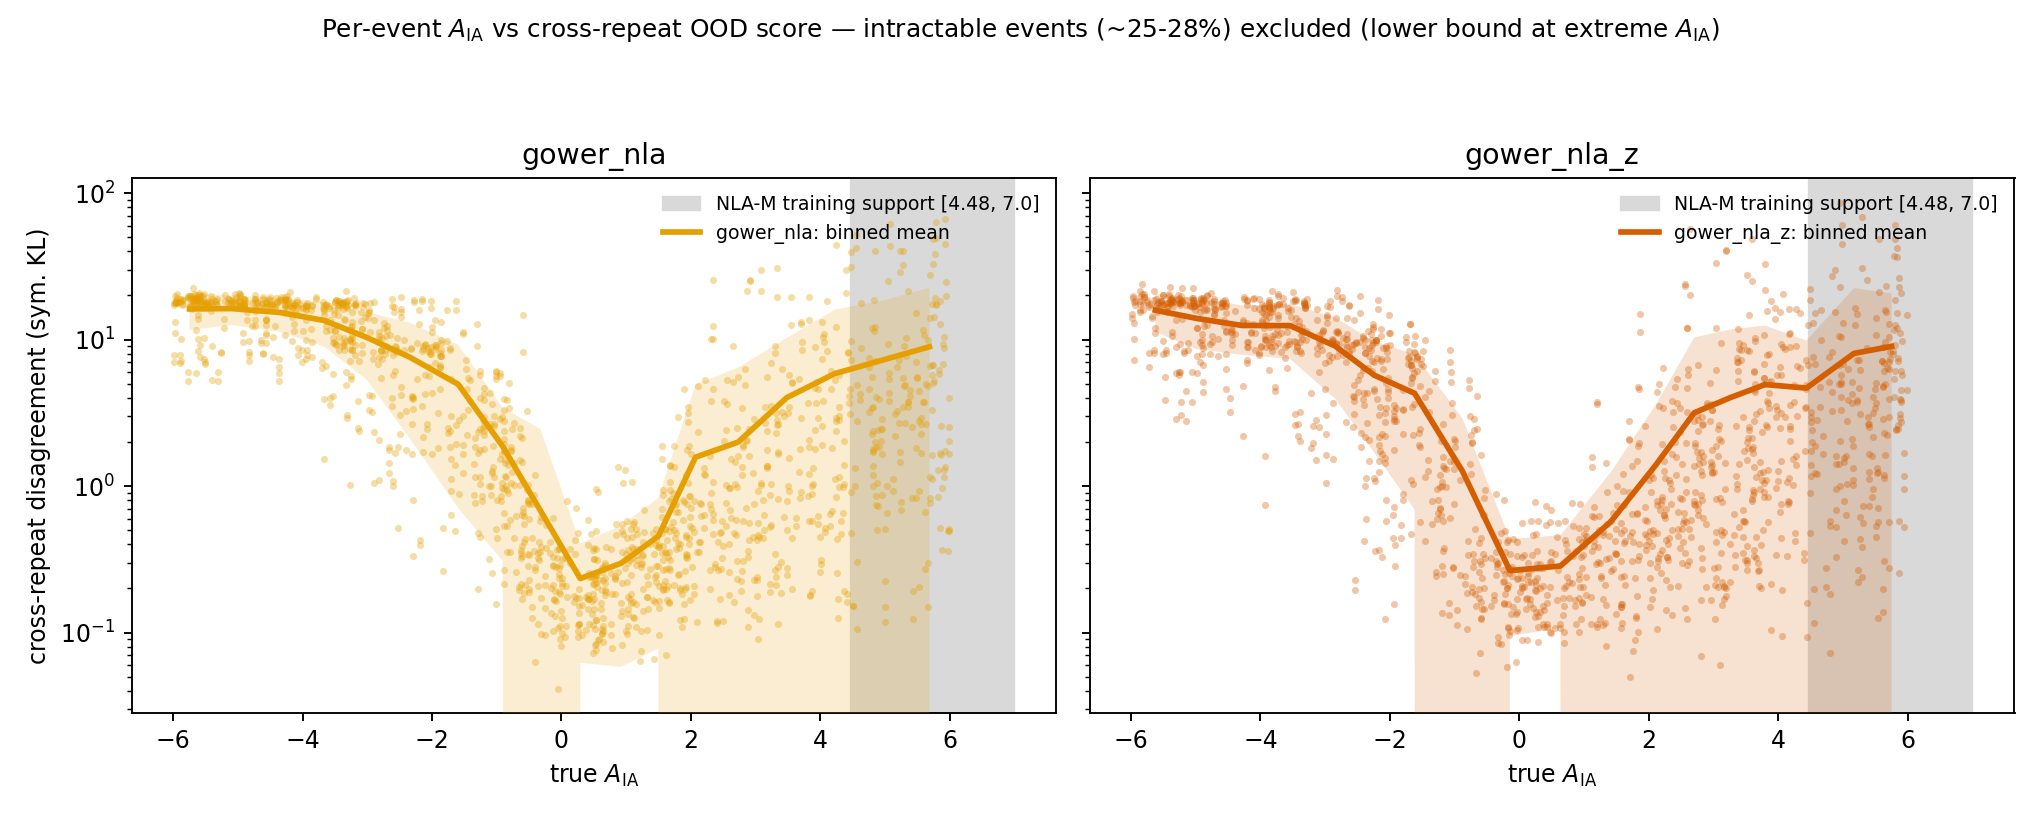
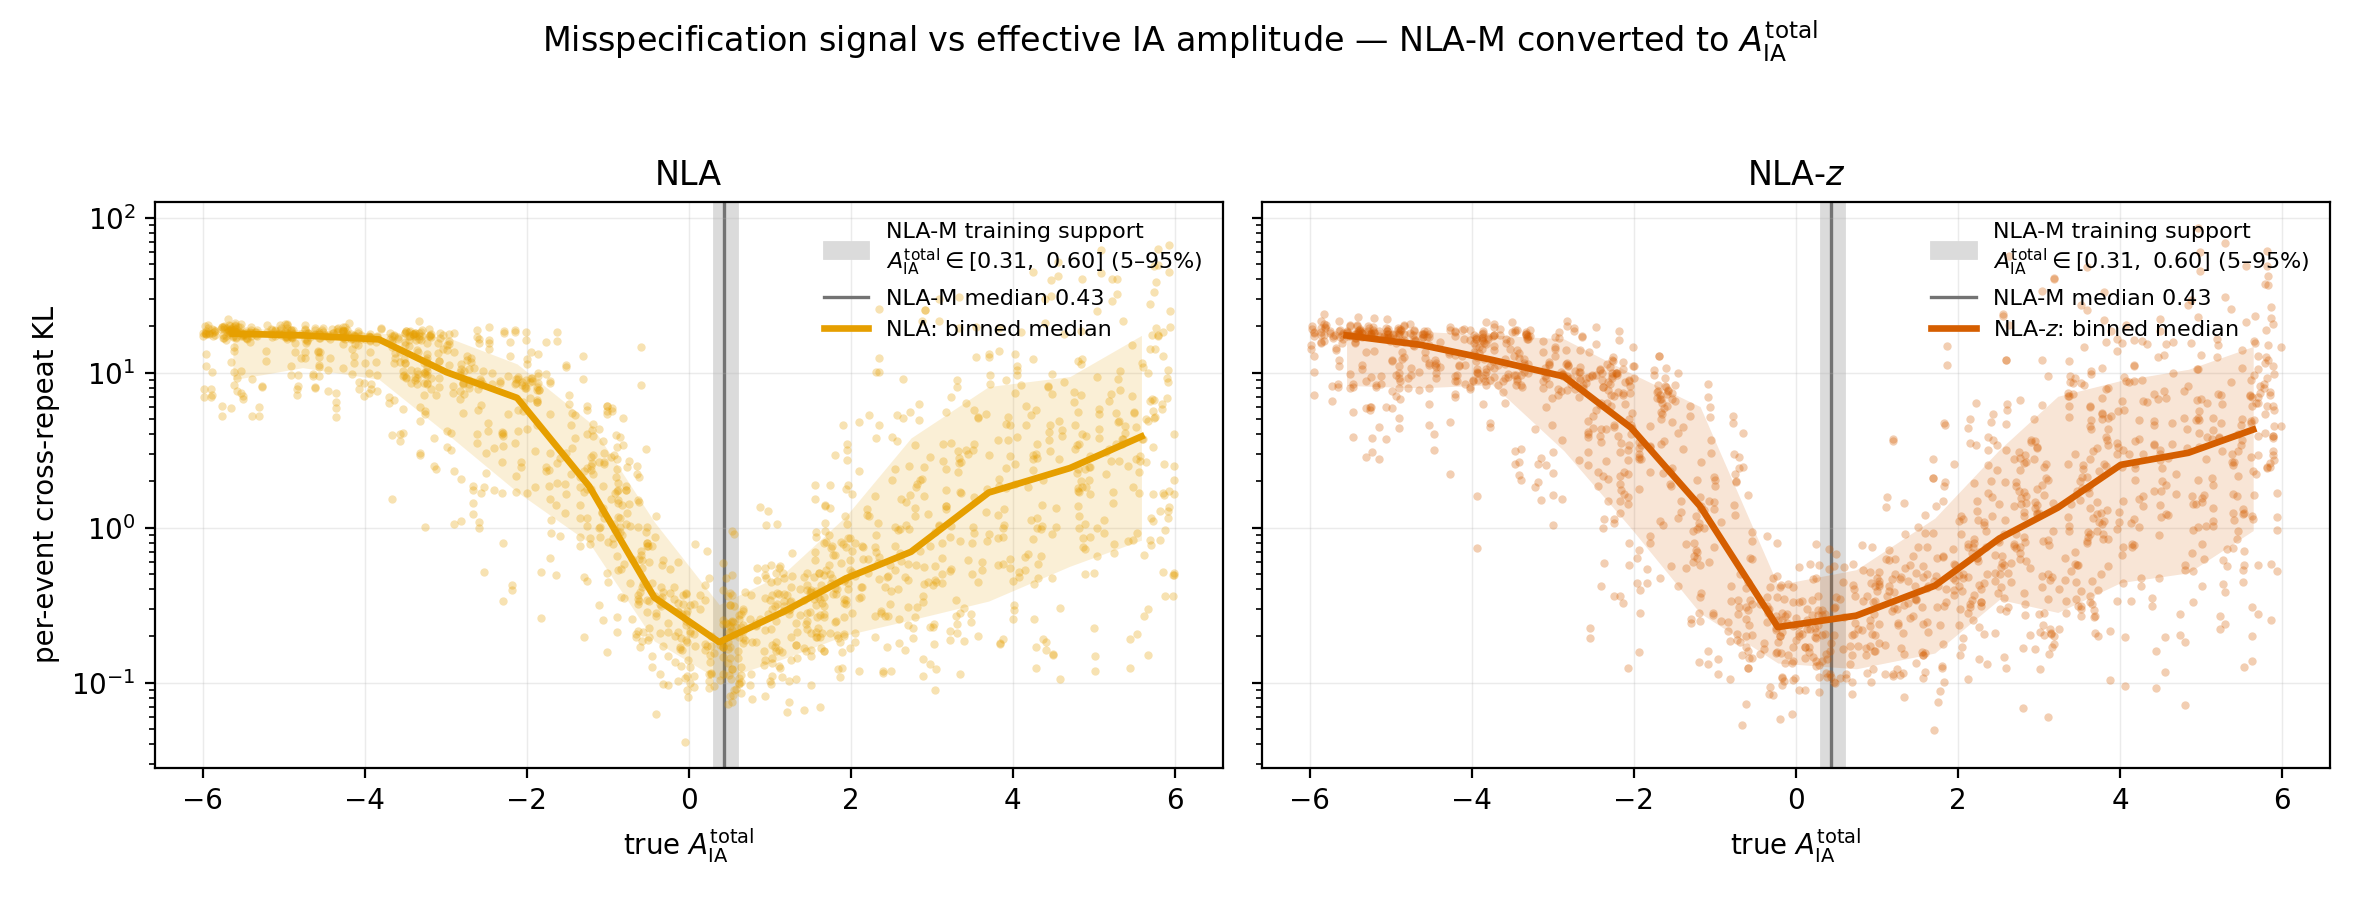
fix: convert NLA-M a_ia to the effective A_IA^total before comparing IA models
`a_ia` does not mean the same thing in the three IA models, so the raw
parameter must never share an axis. Measured on this arm's stored theta0s:

  gower_bgp_nla_m   a_ia in [4.48, 7.00], median 5.75   RAW NLA-M prefactor
  gower_nla         a_ia in [-6.0, +6.0], median -0.11  ALREADY A_IA^total
  gower_nla_z       a_ia in [-6.0, +6.0], median +0.12  ALREADY A_IA^total

NLA and NLA-z store the amplitude directly in the KiDS-Legacy A_IA^total
convention (Wright et al. 2025), centred on zero; NLA-M stores the raw
prefactor of

  A_eff^(i) = a_ia * f_red^(i) * (10^{log10 M^(i)} / 10^{13.5})^{b_ia}

(src/cosmology/nla.py:kappa_ia_nla_m, f_red from src/KiDS/systematics.py:19,
per-bin halo masses from kids-legacy-sbi/data/priors/massdep_means.txt).
Averaged over the six tomographic bins at the prior centre this gives 0.437,
reproducing the 0.44 recorded in the earlier first-npe-misspecification
analysis, where this conversion was first established.

The previous figure shaded the RAW box [4.48, 7.0] as "NLA-M training
support" on an axis carrying A_IA^total. That placed the band an order of
magnitude off-scale and inverted the reading. Converted per event, the
training support is A_IA^total in [0.31, 0.60] (5-95%), median 0.43 -- and
the cross-repeat KL bottoms out exactly there for BOTH nla and nla_z,
rising steeply on either side. The model is least surprised precisely where
the effective IA amplitude matches what it was trained on, recovered
without ground truth.
[…]

Changed region(s): [[0.0, 0.1838, 0.9882, 0.9804], [0.1544, 0.0, 0.8338, 0.0613], [0.2471, 0.9191, 0.3397, 0.9804]]

diff --git a/.claude/runs/eval-and-viz/production-model-misspec/artifacts/gower_aia_vs_kl.py b/.claude/runs/eval-and-viz/production-model-misspec/artifacts/gower_aia_vs_kl.py
@@ -1,0 +1,173 @@
+"""Misspecification signal vs the EFFECTIVE IA amplitude A_IA^total.
+
+⚠ THE CONVERSION THIS SCRIPT EXISTS TO GET RIGHT
+--------------------------------------------------
+`a_ia` does NOT mean the same thing in the three IA models, so the raw parameter must never
+be plotted on a shared axis. Measured on the stored `theta0s` of this arm:
+
+  gower_bgp_nla_m   a_ia in [4.48, 7.00], median 5.75   <- RAW NLA-M amplitude parameter
+  gower_nla         a_ia in [-6.0, +6.0], median -0.11  <- ALREADY A_IA^total
+  gower_nla_z       a_ia in [-6.0, +6.0], median +0.12  <- ALREADY A_IA^total
+
+The NLA and NLA-z variates store the amplitude directly in the KiDS-Legacy A_IA^total
+convention (Wright et al. 2025), centred on zero. NLA-M instead stores the raw prefactor of
+
+    A_eff^(i) = a_ia * f_red^(i) * (10^{log10 M^(i)} / 10^{13.5})^{b_ia}
+
+(`src/cosmology/nla.py:kappa_ia_nla_m`, `f_red` from `src/KiDS/systematics.py:19`, per-bin
+halo masses from `kids-legacy-sbi/data/priors/massdep_means.txt`). Averaged over the six
+tomographic bins at the prior centre (a_ia = 5.74, b_ia = 0.44) this gives A_IA^total = 0.437,
+reproducing the 0.44 recorded in the earlier `first-npe-misspecification` analysis.
+
+An earlier version of this figure shaded the RAW NLA-M box [4.48, 7.0] as the "training
+support" on an axis carrying NLA's A_IA^total. That put the training band an order of
+magnitude away from where the model was actually trained and inverted the reading of the
+figure: the NLA/NLA-z events nearest A_IA^total = 0 are the ones the NLA-M model is LEAST
+prepared for, not the most. This script converts NLA-M per event and shades the resulting
+band, so both fidelities sit in one convention.
+"""
+
+import argparse
+import os
+import sys
+
+import matplotlib
+
+matplotlib.use("Agg")
+import matplotlib.pyplot as plt
+import numpy as np
+
+sys.path.insert(0, os.path.dirname(os.path.abspath(__file__)))
+from gower_style import COLORS, LABELS  # noqa: E402
+
+PARAMS = ["omega_m", "sigma_8", "w0", "mnu", "h", "ns", "ombh2", "a_ia", "b_ia"]
+J_AIA, J_BIA = PARAMS.index("a_ia"), PARAMS.index("b_ia")
+
+# the scaler mapped every variate's a_ia/b_ia through the NLA-M preset box, so unscaling with
+# it recovers each variate's own stored physical value (raw for nla_m, A_IA^total for nla*).
+AIA_BOX, BIA_BOX = (4.48, 7.0), (0.28, 0.6)
+
+# NLA-M effective-amplitude conversion (see docstring)
+F_RED = np.array([0.15, 0.20, 0.17, 0.24, 0.19, 0.03])
+LOG10_M = np.array([11.69224599, 12.45768451, 12.76280679, 12.93435839,
+                    13.08446641, 13.21675774])
+LOG10_M_PIVOT = 13.5
+
+
+def nla_m_effective(a_ia, b_ia):
+    """Raw NLA-M (a_ia, b_ia) -> A_IA^total, averaged over the six tomographic bins."""
+    a = np.asarray(a_ia, dtype=np.float64)[:, None]
+    b = np.asarray(b_ia, dtype=np.float64)[:, None]
+    per_bin = a * F_RED[None, :] * 10.0 ** ((LOG10_M[None, :] - LOG10_M_PIVOT) * b)
+    return per_bin.mean(axis=1)
+
+
+def unscale(x, box):
+    return x * (box[1] - box[0]) + box[0]
+
+
+def load(root, variate, match):
+    p = os.path.join(root, variate, f"misspec_posterior_samples_{match}.npz")
+    with np.load(p, allow_pickle=True) as f:
+        th, s, files = f["theta0s"], f["samples"], f["test_files"]
+    mu, sd = s.mean(0), s.std(0)
+    z = (th - mu) / np.maximum(sd, 1e-12)
+    a_raw = unscale(th[:, J_AIA], AIA_BOX)
+    b_raw = unscale(th[:, J_BIA], BIA_BOX)
+    return {"a_raw": a_raw, "b_raw": b_raw, "z": z, "files": files}
+
+
+def kl_map(root, variate, matches):
+    """Per-event cross-repeat KL, keyed by test_file."""
+    tag = "_".join(matches)
+    p = os.path.join(root, variate, f"misspec_repeat_disagreement_{tag}.npz")
+    if not os.path.exists(p):
+        return None
+    with np.load(p, allow_pickle=True) as f:
+        d = {k: f[k] for k in f.files}
+    key = "kl" if "kl" in d else next((k for k in d if "kl" in k.lower()), None)
+    fk = "test_files" if "test_files" in d else None
+    if key is None or fk is None:
+        return None
+    return dict(zip(d[fk].tolist(), np.asarray(d[key], dtype=np.float64)))
+
+
+def binned(x, y, n=14, minc=6):
+    e = np.unique(np.quantile(x, np.linspace(0, 1, n + 1)))
+    c, m, s = [], [], []
+    for lo, hi in zip(e[:-1], e[1:]):
+        k = (x >= lo) & (x <= hi)
+        if k.sum() >= minc:
+            c.append(0.5 * (lo + hi))
+            m.append(np.median(y[k]))
+            # 16-84 percentiles, not mean +- sd: the KL is heavy-tailed and plotted on a
+            # log axis, where a symmetric sd band underflows into a meaningless funnel.
+            s.append(np.percentile(y[k], [16, 84]))
+    return np.array(c), np.array(m), np.array(s)
+
+
+def main():
+    ap = argparse.ArgumentParser()
+    ap.add_argument("--root", required=True)
+    ap.add_argument("--matches", nargs="+",
+                    default=[f"ncosmo300_{i}" for i in range(5)])
+    ap.add_argument("--match", default="ncosmo300_0")
+    ap.add_argument("--variates", nargs="+", default=["gower_nla", "gower_nla_z"])
+    ap.add_argument("--indist", default="gower_bgp_nla_m")
+    ap.add_argument("--out", default="gower_aia_vs_kl.png")
+    ap.add_argument("--dpi", type=int, default=200)
+    args = ap.parse_args()
+
+    ind = load(args.root, args.indist, args.match)
+    a_eff_id = nla_m_effective(ind["a_raw"], ind["b_raw"])
+    lo, hi = np.percentile(a_eff_id, [5, 95])
+    print(f"[{args.indist}] NLA-M effective A_IA^total: median {np.median(a_eff_id):.3f}, "
+          f"5-95% [{lo:.3f}, {hi:.3f}], full [{a_eff_id.min():.3f}, {a_eff_id.max():.3f}]")
+    print("    (earlier first-npe-misspecification analysis adopted the band [0.09, 0.78])")
+
+    fig, axes = plt.subplots(1, len(args.variates),
+                             figsize=(5.9 * len(args.variates), 4.5), sharey=True)
+    axes = np.atleast_1d(axes)
+
+    for ax, name in zip(axes, args.variates):
+        d = load(args.root, name, args.match)
+        km = kl_map(args.root, name, args.matches)
+        if km is None:
+            raise SystemExit(f"no cross-repeat KL npz for {name}")
+        y = np.array([km.get(f, np.nan) for f in d["files"].tolist()])
+        x = d["a_raw"]                     # already A_IA^total for nla / nla_z
+        k = np.isfinite(x) & np.isfinite(y)
+        x, y = x[k], y[k]
+
+        ax.axvspan(lo, hi, color="0.86", zorder=0,
+                   label=f"NLA-M training support\n"
+                         rf"$A_{{\rm IA}}^{{\rm total}} \in [{lo:.2f},\ {hi:.2f}]$ (5–95%)")
+        ax.axvline(float(np.median(a_eff_id)), color="0.45", ls="-", lw=1.2, zorder=1,
+                   label=rf"NLA-M median {np.median(a_eff_id):.2f}")
+        c = COLORS.get(name, "tab:orange")
+        ax.scatter(x, y, s=9, alpha=0.30, color=c, lw=0, zorder=2)
+        bc, bm, bs = binned(x, y)
+        ax.plot(bc, bm, color=c, lw=2.4, zorder=3, label=f"{LABELS.get(name, name)}: binned median")
+        ax.fill_between(bc, bs[:, 0], bs[:, 1], color=c, alpha=0.16, lw=0, zorder=2)
+
+        ax.set_yscale("log")
+        ax.set_xlabel(r"true $A_{\rm IA}^{\rm total}$")
+        ax.set_title(LABELS.get(name, name))
+        ax.legend(fontsize=8, frameon=False, loc="upper right")
+        ax.grid(alpha=0.25, lw=0.5)
+
+    axes[0].set_ylabel("per-event cross-repeat KL")
+    fig.suptitle(r"Misspecification signal vs effective IA amplitude — "
+                 r"NLA-M converted to $A_{\rm IA}^{\rm total}$", fontsize=12)
+    fig.tight_layout(rect=(0, 0, 1, 0.95))
+    fig.savefig(args.out, dpi=args.dpi)
+    print(f"wrote {args.out}")
+
+    print("\nCAVEATS (kept from the original figure):")
+    print("  * a_ia under nla/nla_z is a DIFFERENT parametrisation from NLA-M's; only after the")
+    print("    conversion above do the two sit in one convention.")
+    print("  * the ~25% intractable events are absent, so the trend is a LOWER bound.")
+
+
+if __name__ == "__main__":
+    main()
